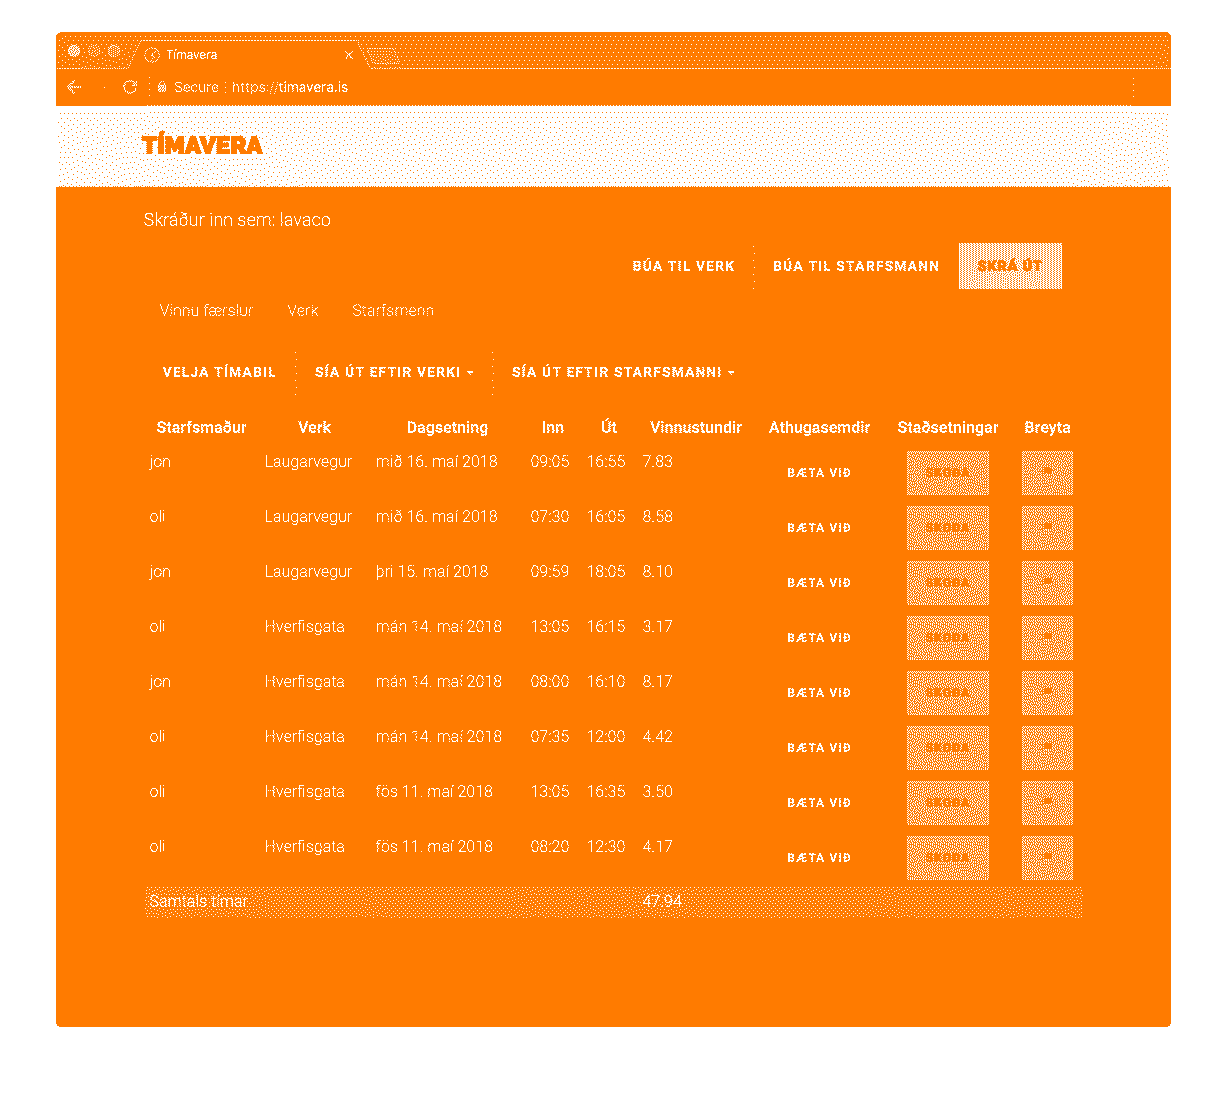
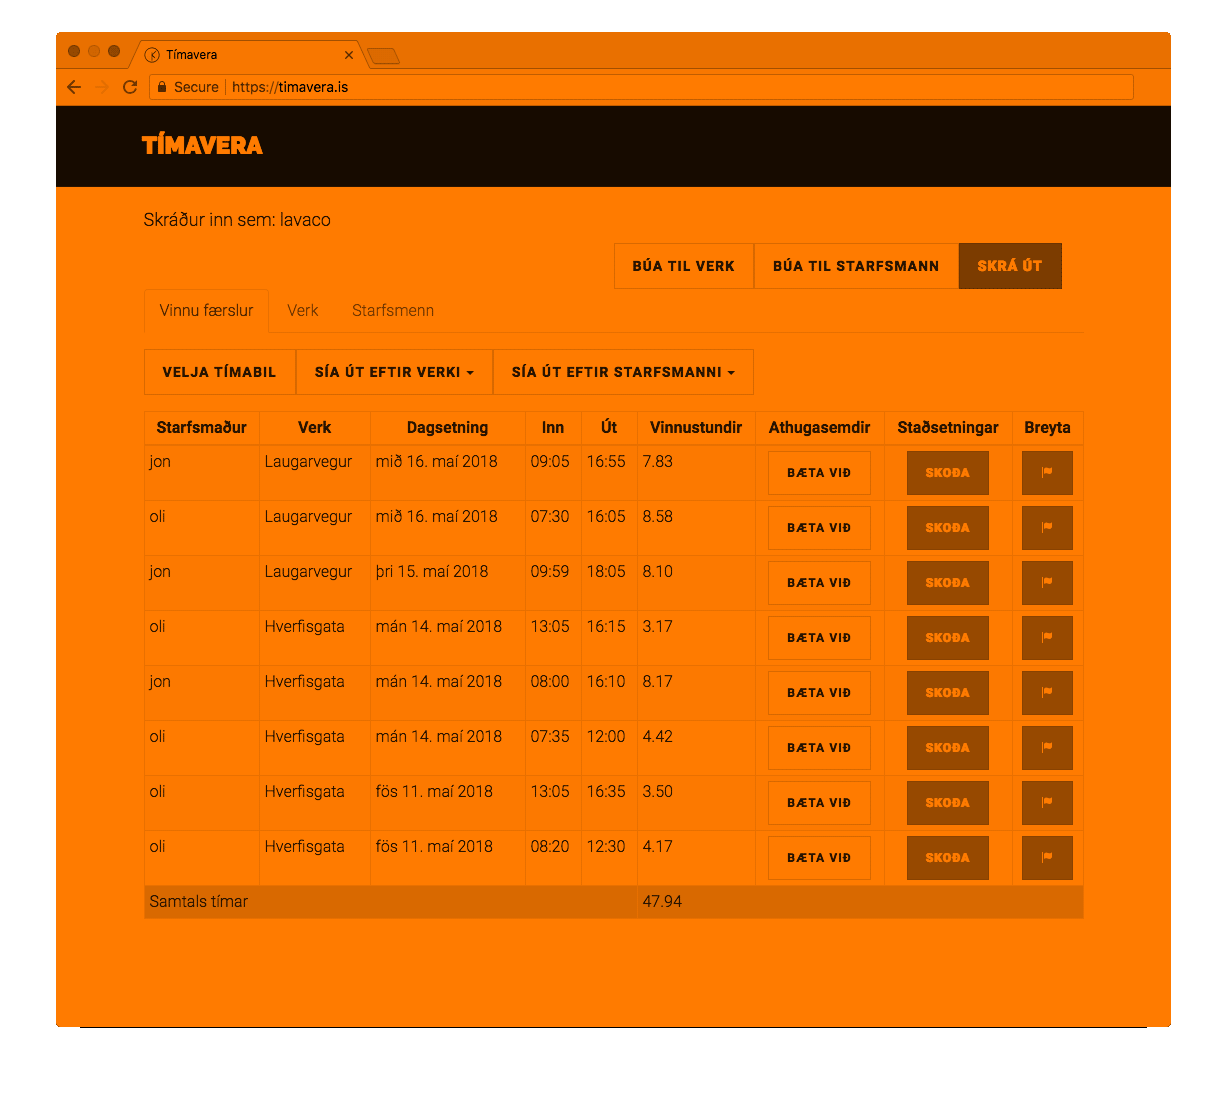
Finished making a dithered version of screenshots on portfolio page

diff --git a/pages/portfolio.js b/pages/portfolio.js
@@ -71,7 +71,7 @@ const Portfolio = () => {
         width={1202} height={1078}
       />
       <Dither
-        src="/images/portfolio/malco_light.png"
+        src="/images/portfolio/malco_dark.png"
         alt="Screenshot from malco.is, a simple site with contact details"
         width={1202} height={1078}
       />
@@ -99,7 +99,11 @@ const Portfolio = () => {
         visualisations for the AI engine. JavaScript, TypeScript & Mithril. Remote contractor. {" "}
         <a href="https://www.activitystream.com/">activitystream.com</a>
       </p>
-      <img src="/images/portfolio/activitystream_dashboard_framed.png" alt="UI Design of Activity Stream dashboard" />
+      <Dither
+        src="/images/portfolio/activitystream_dashboard_framed.png"
+        alt="UI Design of Activity Stream dashboard"
+        width={1921} height={1119}
+      />
 
       <h2 id="vaki"><a href="#vaki">#</a>Vaki</h2>
       <p>
@@ -112,7 +116,11 @@ const Portfolio = () => {
         is then aggregated and analysed in various dashboards. {" "}
         <a href="https://vakiiceland.is/">vakiiceland.is</a>
       </p>
-      <img src="/images/portfolio/bd_frames_and_fish.png" alt="Biomass Daily frames" />
+      <Dither
+        src="/images/portfolio/bd_frames_and_fish.png"
+        alt="Biomass Daily frames"
+        width={655} height={272}
+      />
 
       <h3 id="bd-monitor"><a href="#bd-monitor">#</a>iPhone App: BD Monitor</h3>
       <p>2016 - 2017</p>
@@ -127,13 +135,37 @@ const Portfolio = () => {
         The app was written in JavaScript ES2015 and React Native.
       </p>
 
-      <img src="/images/portfolio/mockup.png" alt="Early mockups demonstrating bottom navigation and History view" />
+      <Dither
+        src="/images/portfolio/mockup.png"
+        alt="Early mockups demonstrating bottom navigation and History view"
+        width={1024} height={508}
+      />
 
-      <img src="/images/portfolio/bdmonitor1.png" alt="BD Monitor login and home screen" />
-      <img src="/images/portfolio/bdmonitor2.png" alt="BD Monitor Summary & Settings" />
-      <img src="/images/portfolio/bdmonitor3.png" alt="BD Monitor History" />
-      <img src="/images/portfolio/bdmonitor4.png" alt="BD Monitor Utilisation" />
-      <img src="/images/portfolio/bdmonitor5.png" alt="BD Monitor sea cage detail view" />
+      <Dither
+        src="/images/portfolio/bdmonitor1.png"
+        alt="BD Monitor login and home screen"
+        width={700} height={700}
+      />
+      <Dither
+        src="/images/portfolio/bdmonitor2.png"
+        alt="BD Monitor Summary & Settings"
+        width={700} height={700}
+      />
+      <Dither
+        src="/images/portfolio/bdmonitor3.png"
+        alt="BD Monitor History"
+        width={700} height={700}
+      />
+      <Dither
+        src="/images/portfolio/bdmonitor4.png"
+        alt="BD Monitor Utilisation"
+        width={700} height={700}
+      />
+      <Dither
+        src="/images/portfolio/bdmonitor5.png"
+        alt="BD Monitor sea cage detail view"
+        width={700} height={700}
+      />
 
 
       <h4 id="biomass-daily"><a href="#biomass-daily">#</a>Web Dashboard: biomassdaily.com</h4>
@@ -170,11 +202,31 @@ const Portfolio = () => {
         </li>
       </ul>
 
-      <img src="/images/portfolio/bd_dashboard.png" alt="Biomass Daily sea cages dashboard" />
-      <img src="/images/portfolio/bd_trendgraph.png" alt="Biomass Daily weight trendgraph" />
-      <img src="/images/portfolio/bd_distribution.png" alt="Biomass Daily weight distribution" />
-      <img src="/images/portfolio/bd_fcr.png" alt="Biomass Daily Feed Conversion Ratio" />
-      <img src="/images/portfolio/bd_login.png" alt="Biomass Daily Login" />
+      <Dither
+        src="/images/portfolio/bd_dashboard.png"
+        alt="Biomass Daily sea cages dashboard"
+        width={2758} height={1860}
+      />
+      <Dither
+        src="/images/portfolio/bd_trendgraph.png"
+        alt="Biomass Daily weight trendgraph"
+        width={2758} height={1860}
+      />
+      <Dither
+        src="/images/portfolio/bd_distribution.png"
+        alt="Biomass Daily weight distribution"
+        width={2758} height={1860}
+      />
+      <Dither
+        src="/images/portfolio/bd_fcr.png"
+        alt="Biomass Daily Feed Conversion Ratio"
+        width={2758} height={1860}
+      />
+      <Dither
+        src="/images/portfolio/bd_login.png"
+        alt="Biomass Daily Login"
+        width={2758} height={1860}
+      />
 
       <h2 id="ja-gadget-widget"><a href="#ja-gadget-widget">#</a>Já.is Gadget & Widget</h2>
       <p>
@@ -188,14 +240,10 @@ const Portfolio = () => {
         Once enter was pressed it would redirect to the <em>ja.is</em> website.
       </p>
 
-      <img
+      <Dither
         src="/images/portfolio/ja_combined.png"
         alt="Screenshot of the Já.is OSX Widget and Windows Gadget"
-        style={{
-          display: "block",
-          marginLeft: "auto",
-          marginRight: "auto",
-        }}
+        width={369} height={230}
       />
 
       <p>
